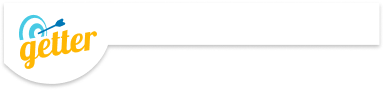
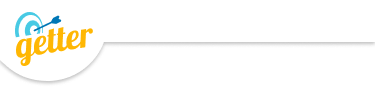
fix everything

diff --git a/index.html b/index.html
@@ -17,8 +17,17 @@
 
   <body>
     <!-- TODO: Say something interesting in the heading tag... -->
+    <div class="background">
+
+
+      <img class="header" src="img/Header.png" alt="Header">
+    
     <div class="container-fluid">
-      <img class ="header" src="img/Header.png" alt="Header">
+      <!-- <img class="backgroud" src="img/Group 5 1.png" alt=""> -->
+      <!-- <div style="background-image: url('img/Group 5 1.png');"> -->
+
+
+      
 
       <div class="row">
 <!--         <div class="card-header">
@@ -57,16 +66,9 @@
 
       <div class="row money">
 
-        <div class="col">
-        </div>
+          <span class="input-group-text dollarSign">$</span>
+          <input type="number" class="form-control numberInput" aria-label="Amount (to the nearest dollar)">
 
-        <div class="col-6">
-          <span class="input-group-text">$</span>
-          <input type="text" class="form-control" aria-label="Amount (to the nearest dollar)">
-        </div>
-
-        <div class="col">
-        </div>
       </div>
 
       <div class="row">
@@ -122,5 +124,6 @@
     <div id="results-area"></div>
     <div id="question-display"></div>
     <div id="answer-display"></div>
+  </div>
   </body>
 </html>

diff --git a/index.css b/index.css
@@ -13,6 +13,14 @@
   color: #fff;
 }
 
+body{
+  margin: 0;
+  padding: 0;
+  max-width: 375px;
+  max-height: 667px;
+
+}
+
 span {
   text-decoration: none;
 }
@@ -22,15 +30,39 @@ h1 {
   font-weight: bolder;
 }
 
-body {
-  height: 90%;
-}
-
 .header {
   width: 100%;
+  display: block;
+  padding: 0px;
+  margin: 0px;
+  top: 0;
 }
 
 .money {
-  align-items: center;
-  width: 50%;
+  display: inline-block;
+}
+
+.dollarSign {
+  font-size: 36px;
+  font-weight: bold;
+  fon
+}
+
+.background {
+  background: url('img/Group 5 1.png') no-repeat center center fixed;
+  -webkit-background-size: cover;
+  -moz-background-size: cover;
+  -o-background-size: cover;
+  background-size: cover;
+  height: 100%;
+
+}
+
+.numberInput {
+  border-top: 0;
+  border-left: 0;
+  border-right: 0;
+  border-bottom: 2px solid black;
+  border-radius: 0;
+
 }
